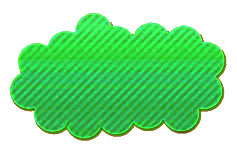
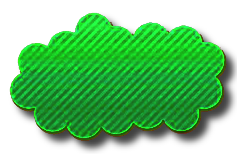
Novo fundo e nuvem + Display FPS

diff --git a/main.py b/main.py
@@ -17,7 +17,7 @@ textos_dica_x = 150
 # Carrega as imagens dos objetos
 tubo_img = pygame.image.load('images/tubo.png')
 tubo2_img = pygame.image.load('images/tubo2.png')
-nuvem = pygame.image.load('images/nuvem.png')
+nuvem = pygame.image.load('images/nuvem_1.png')
 fundo = pygame.image.load('images/fundo.png')
 gameover_overlay = pygame.image.load('images/gameover.png')
 
@@ -28,7 +28,7 @@ retangulo_tubo2 = tubo2_img.get_rect()
 
 # Função que inicia as variáveis, para depois chamar ela e resetar o jogo
 def Iniciar():
-    global passaro_x, passaro_y, passaro_x, passaro_speed, espaco_tubos, espaco_tubos_y, tubo_x, tubo_y, tubo2_x, tubo2_y, nuvem_x, nuvem_y, fundo_x, fundo_y, dt_global, pontos, gameover
+    global passaro_x, passaro_y, passaro_x, passaro_speed, espaco_tubos, espaco_tubos_y, tubo_x, tubo_y, tubo2_x, tubo2_y, nuvem_x, fundo_x, fundo_y, dt_global, pontos, gameover, clock
     
     # Passaro variaveis
     passaro_x = 200
@@ -43,8 +43,7 @@ def Iniciar():
     tubo2_y = (-900 + espaco_tubos) + random.randint(0, 100)
     tubo2_x = WIDTH-199
     # Cenário
-    nuvem_x = 700
-    nuvem_y = 100
+    nuvem_x = 0
     fundo_x = 0
     fundo_y = 0
     # Variáveis globais
@@ -54,16 +53,17 @@ def Iniciar():
     # Música
     music.play('zapzap.wav')
     music.set_volume(0.01)
+    clock = pygame.time.Clock()
+    
 
 # Chama os valores iniciais
 Iniciar()
 
 # Desenha na tela todos os objetos
 def draw():
+    screen.clear()
     screen.blit(fundo, (fundo_x, fundo_y))
-    screen.blit(nuvem, (nuvem_x, nuvem_y))
-    screen.blit(nuvem, (nuvem_x+300, nuvem_y+200))
-    screen.blit(nuvem, (nuvem_x+700, nuvem_y+500))
+    screen.blit(nuvem, (nuvem_x, 0))
     if textos_dica_x>-650:
         screen.draw.text(f"Aperte espaço para dar uma voada", (textos_dica_x, 200), color="#41E95F", fontname='matchuppro.ttf', fontsize=30, owidth=1.5, ocolor="#000000")
         screen.draw.text(f"Não esbarre nos canos, para não bater de cara no cano!", (textos_dica_x, 225), color="#41E95F", fontname='matchuppro.ttf', fontsize=30, owidth=1.5, ocolor="#000000")
@@ -74,6 +74,9 @@ def draw():
     screen.draw.text(f"Tempo: {dt_global}", topright=(700, 20), color="#41E95F", fontname='matchuppro.ttf', fontsize=30, owidth=1.5, ocolor="#000000")
     screen.draw.text(f"Pontos: {pontos}", topright=(150, 20), color="#41E95F", fontname='matchuppro.ttf', fontsize=30, owidth=1.5, ocolor="#000000")
     screen.draw.text(f"Dt: {dt_global/10000}", topright=(300, 20), color="#41E95F", fontname='matchuppro.ttf', fontsize=30, owidth=1.5, ocolor="#000000")
+    
+    clock.tick()
+    screen.draw.text(f"FPS: {int(clock.get_fps())}", topright=(500, 20), color="#41E95F", fontname='matchuppro.ttf', fontsize=30, owidth=1.5, ocolor="#000000")
     
     if gameover:
         screen.blit(gameover_overlay, (0,0))
@@ -122,13 +125,13 @@ def andar_objetos(dt):
         tubo2_y = -(espaco_tubos_y - (espaco_tubos / 2))
         print(tubo2_y)
 
-    if nuvem_x>-900:
-        nuvem_x -= int(100 * dt)
+    if nuvem_x>-nuvem.get_width():
+        nuvem_x -= int(60 * dt)
     else:
-        nuvem_x = WIDTH+237
+        nuvem_x = WIDTH+nuvem.get_width()
 
-    if fundo_x>-1120:
-        fundo_x -= int(70 * dt)
+    if fundo_x>-fundo.get_width():
+        fundo_x -= int(40 * dt)
     else:
         fundo_x = 0
     if textos_dica_x>-650:
